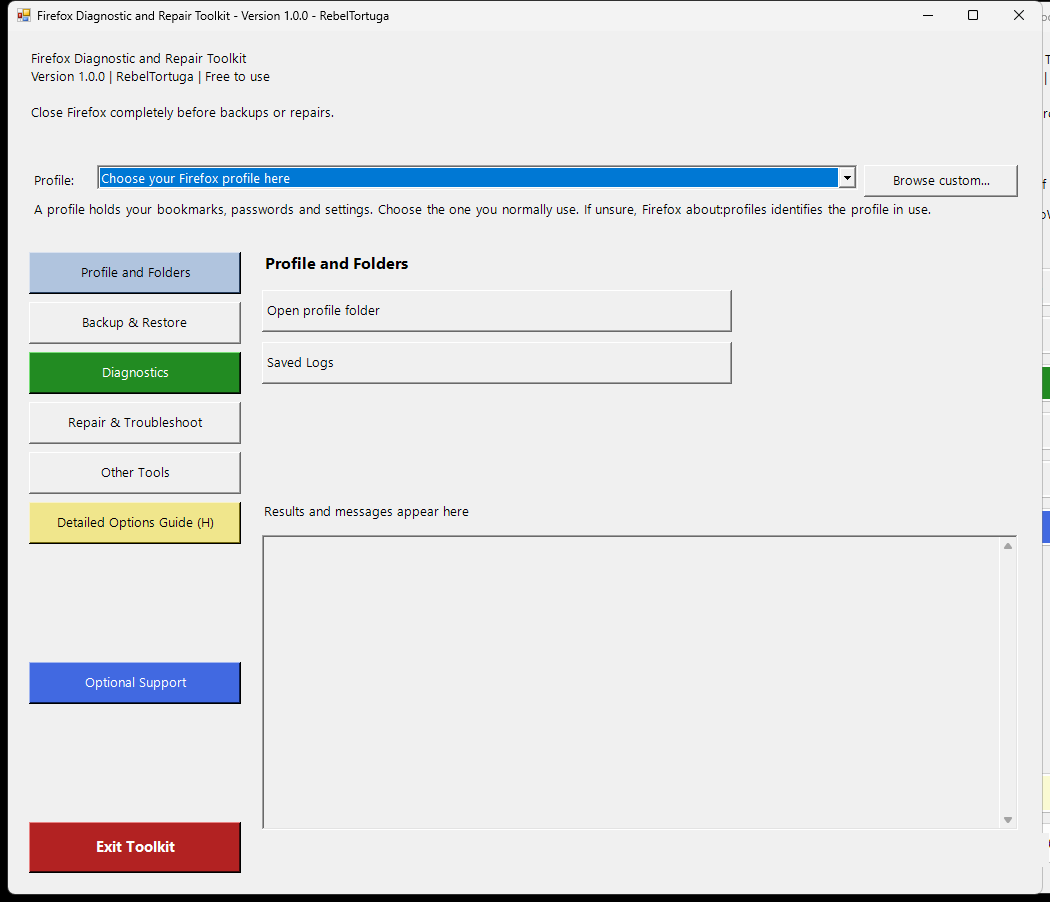
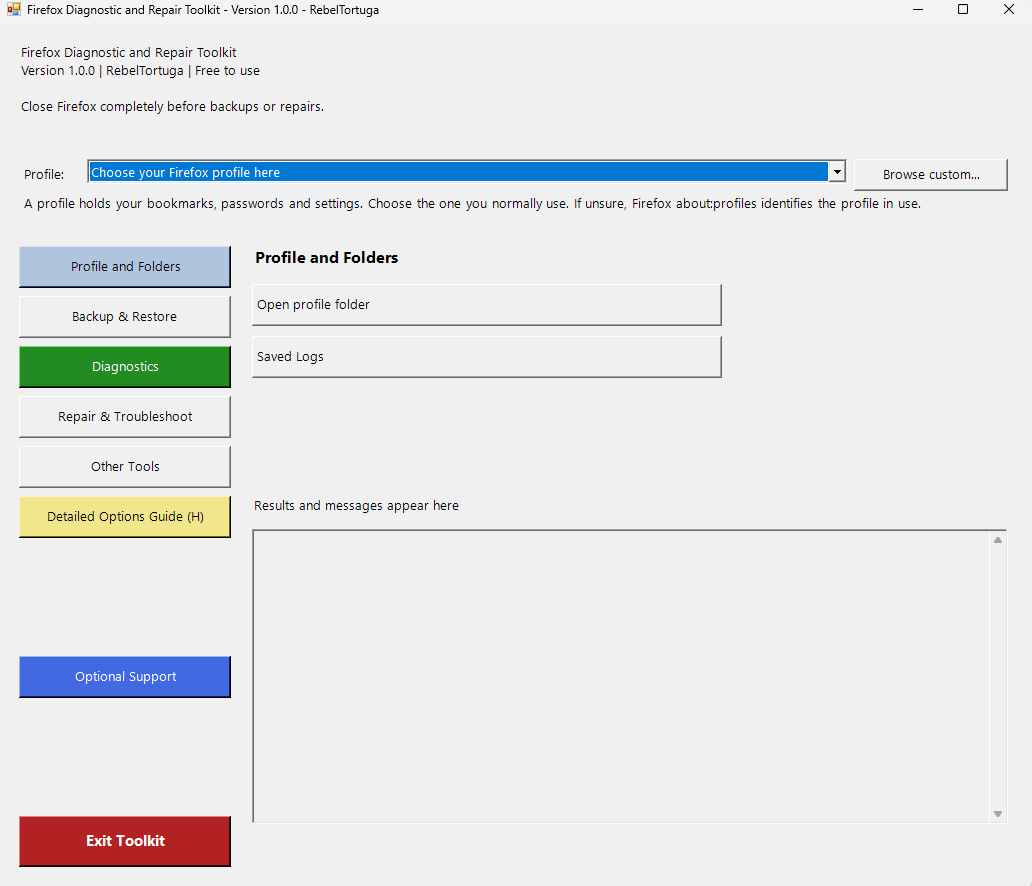
Update Firefox toolkit screenshot (#1)
Publish the verified PSD-derived screenshot and matching README description while preserving assets/screenshot.png.

Changed region(s): [[0.0, 0.0, 1.0, 1.0], [0.8992, 0.0, 0.9302, 0.0305], [0.6822, 0.3352, 0.7132, 0.3657]]

diff --git a/README.md b/README.md
@@ -23,7 +23,7 @@ A Firefox companion to the WoW Diagnostic and Repair Toolkit: a clickable sectio
 
 ## Screenshot
 
-![Firefox Diagnostic and Repair Toolkit main window, with local paths redacted](assets/screenshot.png)
+![Firefox Diagnostic and Repair Toolkit main window with profile selector, navigation, and results panel](assets/screenshot.png)
 
 ## Start here
 1. Extract **all files** from the ZIP into one folder.
